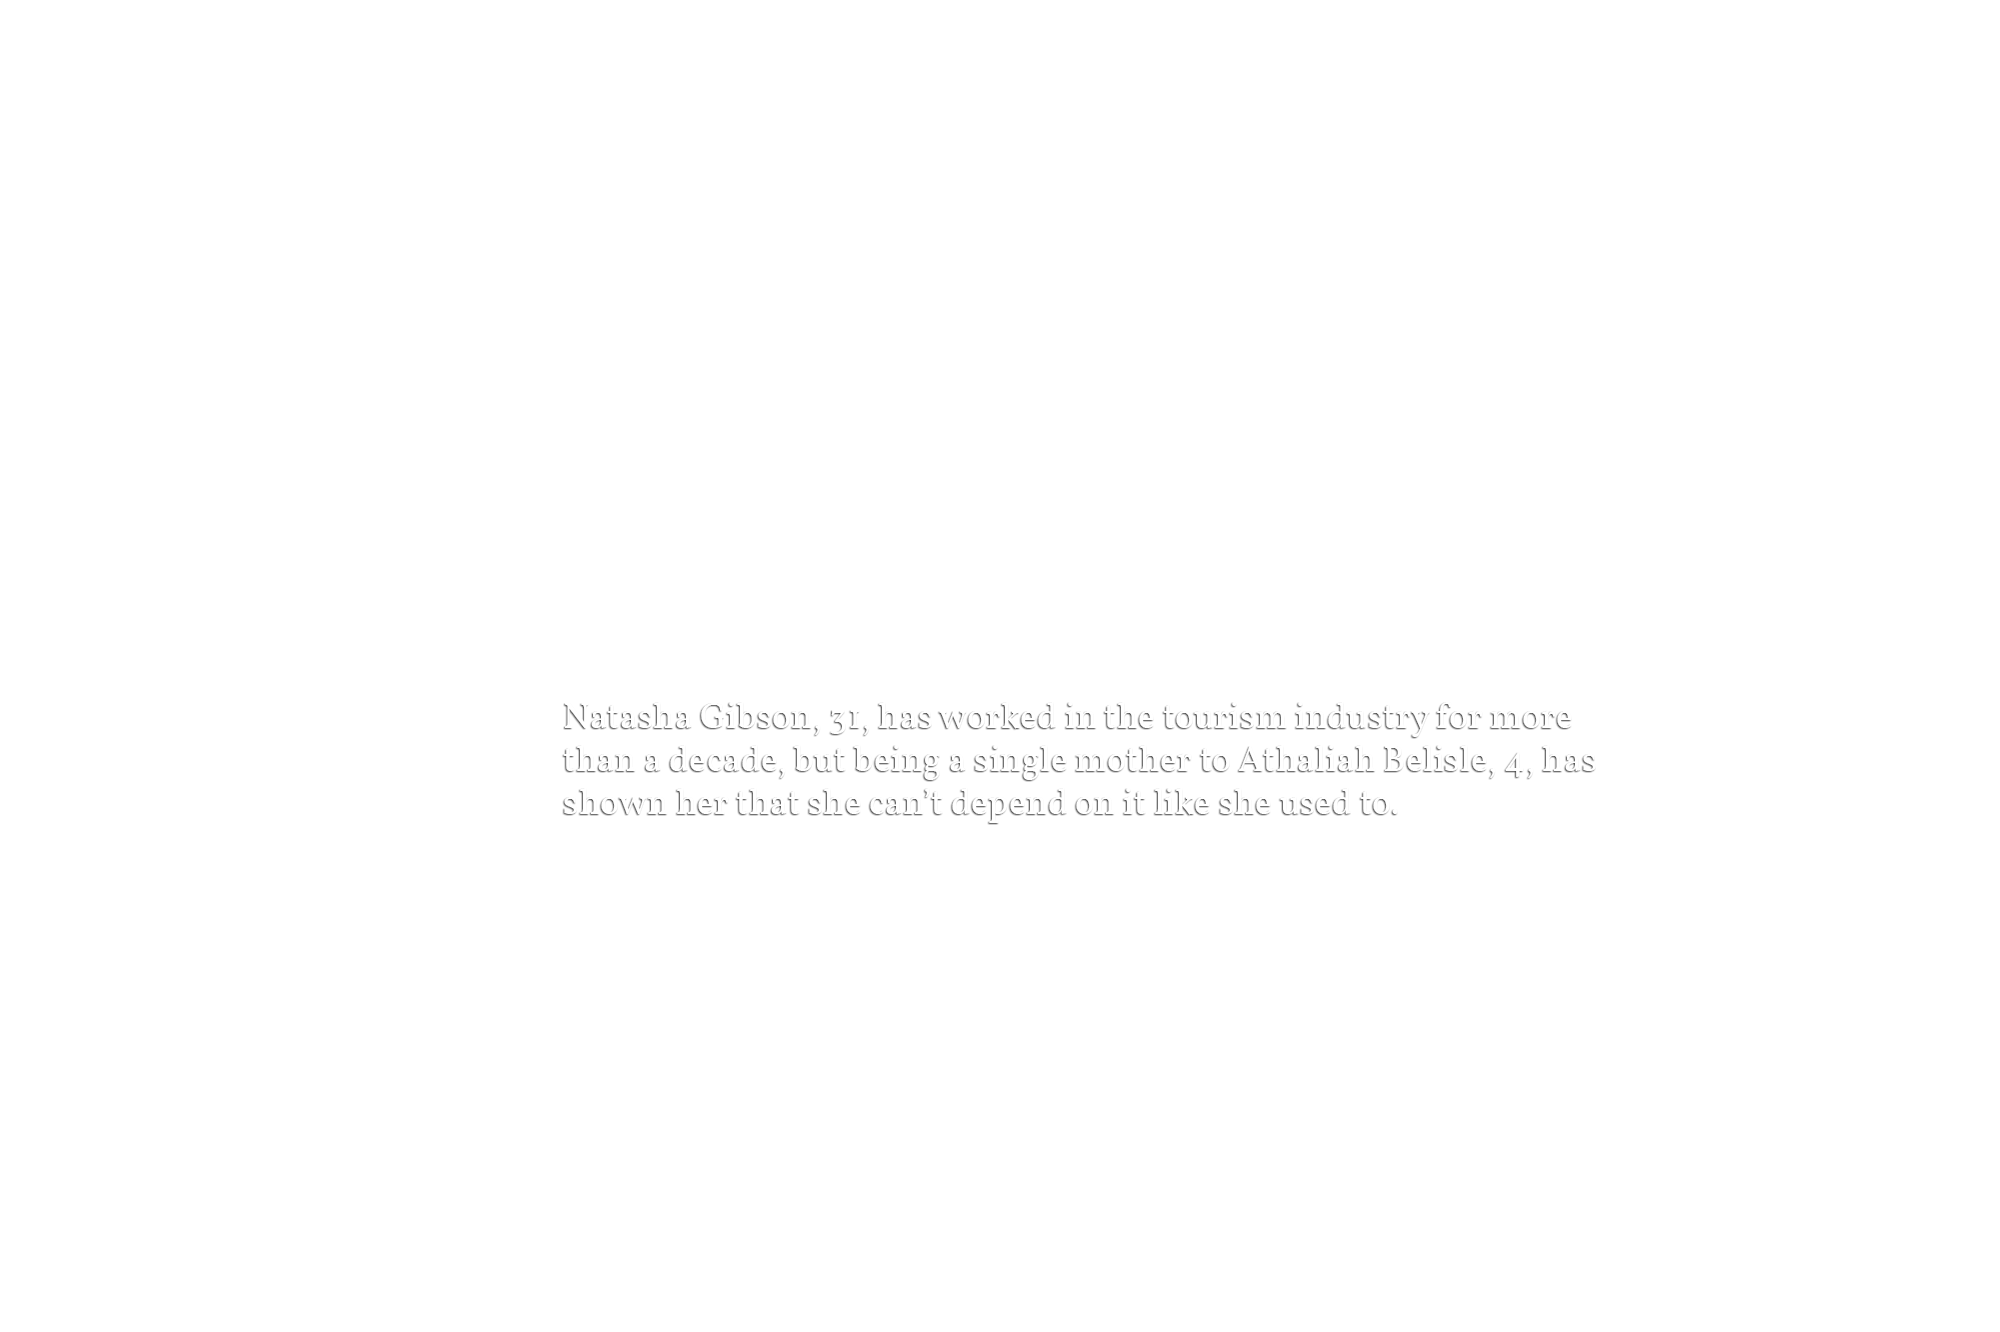
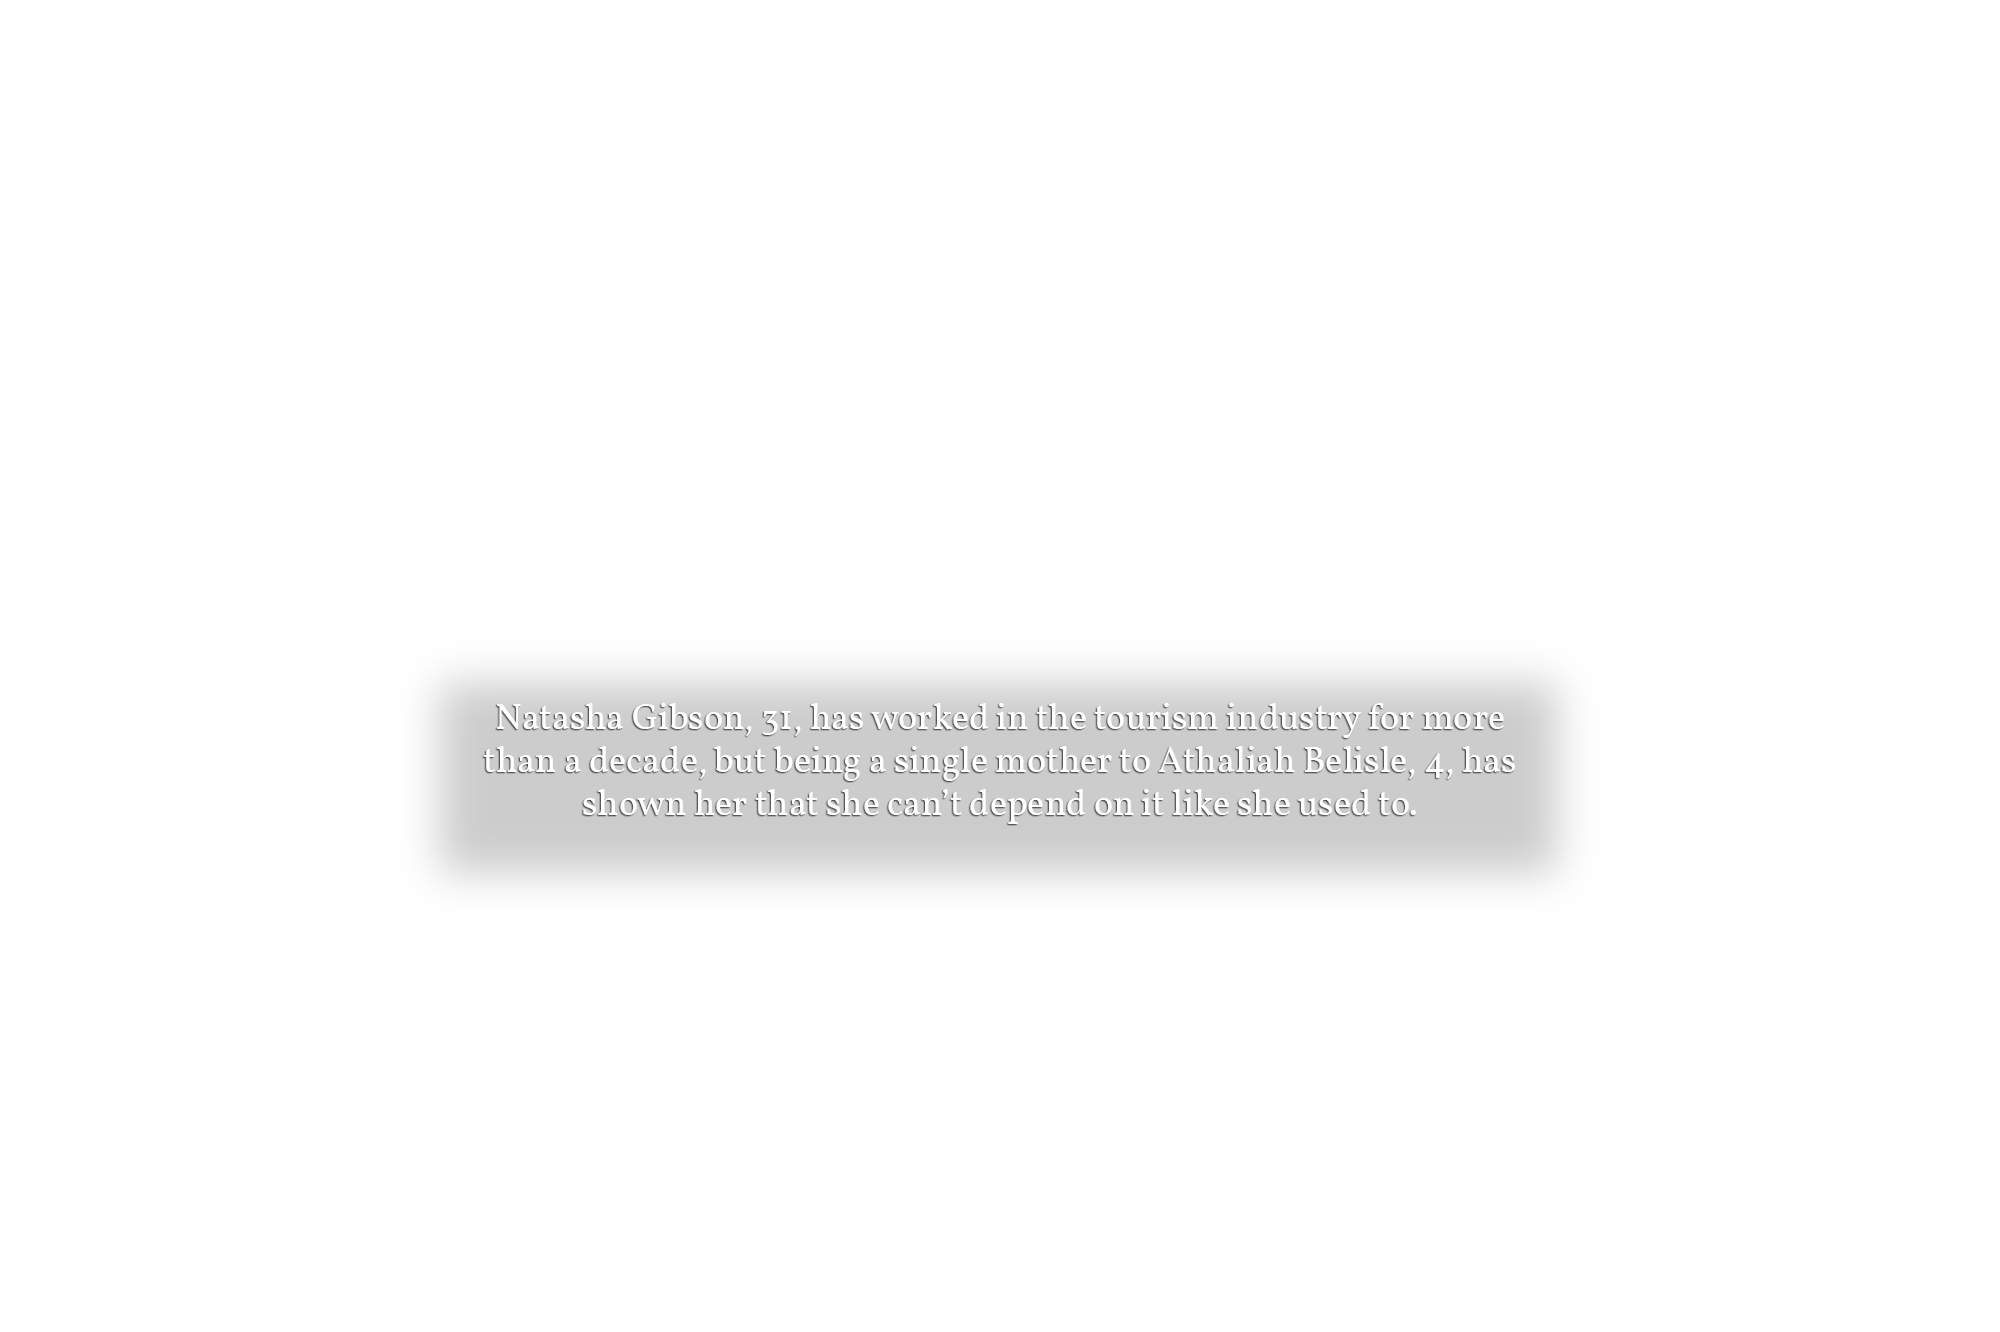
design for mobile photostories

Changed region(s): [[0.217, 0.4925, 0.806, 0.6772]]

diff --git a/layouts/pages/photostory1.html b/layouts/pages/photostory1.html
@@ -4,7 +4,6 @@
 
 {{ define "main" }}
 
-
 <div id="pinMaster">
   <div class="exit">
    <a href="#" onclick="history.back(-1)"><i class="fa fa-times-circle fa-2x"></i></a>
@@ -98,9 +97,59 @@
          </div>
      </section>
    </div>
-</div>
+ </div>
+
+<!--
+  <div class="exit">
+   <a href="#" onclick="history.back(-1)"><i class="fa fa-times-circle fa-2x"></i></a>
+  </div>
+-->
+  <div class="photostory-mobile-title photostory1">
+  <h1>Guiding Generations</h1>
+  <img src="{{ .Site.BaseURL }}images/yellow-underline-left.svg" alt="Yellow Underline">
+  </div>
+  <div id="mobile-photostory">
+  <p>Natasha Gibson, 31, has worked in the tourism industry for more than a decade, but being a single mother to Athaliah Belisle, 4, has shown her that she can’t depend on it like she used to.</p>
+  <img src="{{ .Site.BaseURL }}photostory-generations/france1.jpg" alt="Avatar">
+  <img src="{{ .Site.BaseURL }}photostory-generations/france2.jpg" alt="Avatar">
+  <p>"Being in tourism, you’re gambling your life."</p>
+  <img src="{{ .Site.BaseURL }}photostory-generations/france3.jpg" alt="Avatar">
+  <p>"When there's an offseason after June, you see how bad it is here in this town. It feels like you're living in slow motion like a graveyard."</p>
+  <img src="{{ .Site.BaseURL }}photostory-generations/france4.jpg" alt="Avatar">
+  <img src="{{ .Site.BaseURL }}photostory-generations/france5.jpg" alt="Avatar">
+  <img src="{{ .Site.BaseURL }}photostory-generations/france6.jpg" alt="Avatar">
+  <p>I was thinking of going back to waitressing because I have a child. I know I can get up every day and do my eight-hour shift. The part that really puzzles me is ... the most people get paid here is 250 a week. [250 Belizean dollars is equivalent to 125 U.S. dollars]</p>
+  <p>According to Gibson, tour guides typically earn BZ$75 a day. However, if there’s bad weather or if it’s during offseason, there may not be any tours.</p>
+  <img src="{{ .Site.BaseURL }}photostory-generations/france7.jpg" alt="Avatar">
+  <img src="{{ .Site.BaseURL }}photostory-generations/france8.jpg" alt="Avatar">
+  <img src="{{ .Site.BaseURL }}photostory-generations/france9.jpg" alt="Avatar">
+  <p>Since January 2020, Gibson has started working with local coral restoration organization, Fragments of Hope, in addition to her freelance jobs as a licensed tour guide.</p>
+  <p>"I can't find words to express how it makes me feel to be planting corals. To every one I stick down, I can't wait to go back to see what's my outcome because not all the corals survive, you know?"</p>
+  <img src="{{ .Site.BaseURL }}photostory-generations/france10.jpg" alt="Avatar">
+  <img src="{{ .Site.BaseURL }}photostory-generations/france11.jpg" alt="Avatar">
+  <img src="{{ .Site.BaseURL }}photostory-generations/france12.jpg" alt="Avatar">
+  <img src="{{ .Site.BaseURL }}photostory-generations/france13.jpg" alt="Avatar">
+  <img src="{{ .Site.BaseURL }}photostory-generations/france14.jpg" alt="Avatar">
+  <p>"I want everything that I didn't have for her, which is a good education. I want to raise a child with her head screwed on properly, who will go out and change the world."</p>
+  <img src="{{ .Site.BaseURL }}photostory-generations/france15.jpg" alt="Avatar">
+  <p>"I'm waiting a little bit more to really train her with a snorkeling mask and all that stuff. But as soon as she's able to do it, I want to get her out there and start flooding her brains with it all. ... This part of my life that is the hard struggle job for me will be fun for her. My little girl, you're gonna be a nice doctor, some lawyer, something."</p>
+  </div>
+  <section class="mobile-endcard-itms">
+      <div class="endcard-itms">
+          <p class="endcard-txt">
+              Photos by Haley France
+          </p>
+          <p class="endcard-txt endcard-txt-thanks">
+              Special thanks to Natasha Gibson and Athaliah Belisle
+          </p>
+          <a href="#" onclick="history.back(-1)" class="endcard-btn">
+              Back to Story
+          </a>
+      </div>
+  </section>
 
 <style>
+
   .header, .footer, .main-menu-mobile {
     display:none;
   }
@@ -130,12 +179,10 @@
      padding-bottom: 5vh;
   }
 
-
   .eight img{
     display: block;
     margin-top: -10%;
     width: 100vw;
-
   }
 
   .ten {
@@ -143,6 +190,7 @@
     background-repeat: no-repeat;
     background-size: cover;
   }
+
   .twelve {
     background-image: url("{{ .Site.BaseURL }}photostory-generations/france7.png");
     background-repeat: no-repeat;
@@ -277,8 +325,6 @@
     background-repeat: no-repeat;
     background-size: cover;
   }
-
-
 </style>
 
 {{ end }}

diff --git a/layouts/pages/photostory2.html b/layouts/pages/photostory2.html
@@ -42,6 +42,50 @@
         </div>
     </div>
 
+    <div class="photostory-mobile-title photostory2">
+    <h1>Fishers</h1>
+    <img src="{{ .Site.BaseURL }}images/yellow-underline-left.svg" alt="Yellow Underline">
+    </div>
+    <div id="mobile-photostory">
+    <p>Natasha Gibson, 31, has worked in the tourism industry for more than a decade, but being a single mother to Athaliah Belisle, 4, has shown her that she can’t depend on it like she used to.</p>
+    <img src="{{ .Site.BaseURL }}photostory-generations/france1.jpg" alt="Avatar">
+    <img src="{{ .Site.BaseURL }}photostory-generations/france2.jpg" alt="Avatar">
+    <p>"Being in tourism, you’re gambling your life."</p>
+    <img src="{{ .Site.BaseURL }}photostory-generations/france3.jpg" alt="Avatar">
+    <p>"When there's an offseason after June, you see how bad it is here in this town. It feels like you're living in slow motion like a graveyard."</p>
+    <img src="{{ .Site.BaseURL }}photostory-generations/france4.jpg" alt="Avatar">
+    <img src="{{ .Site.BaseURL }}photostory-generations/france5.jpg" alt="Avatar">
+    <img src="{{ .Site.BaseURL }}photostory-generations/france6.jpg" alt="Avatar">
+    <p>I was thinking of going back to waitressing because I have a child. I know I can get up every day and do my eight-hour shift. The part that really puzzles me is ... the most people get paid here is 250 a week. [250 Belizean dollars is equivalent to 125 U.S. dollars]</p>
+    <p>According to Gibson, tour guides typically earn BZ$75 a day. However, if there’s bad weather or if it’s during offseason, there may not be any tours.</p>
+    <img src="{{ .Site.BaseURL }}photostory-generations/france7.jpg" alt="Avatar">
+    <img src="{{ .Site.BaseURL }}photostory-generations/france8.jpg" alt="Avatar">
+    <img src="{{ .Site.BaseURL }}photostory-generations/france9.jpg" alt="Avatar">
+    <p>Since January 2020, Gibson has started working with local coral restoration organization, Fragments of Hope, in addition to her freelance jobs as a licensed tour guide.</p>
+    <p>"I can't find words to express how it makes me feel to be planting corals. To every one I stick down, I can't wait to go back to see what's my outcome because not all the corals survive, you know?"</p>
+    <img src="{{ .Site.BaseURL }}photostory-generations/france10.jpg" alt="Avatar">
+    <img src="{{ .Site.BaseURL }}photostory-generations/france11.jpg" alt="Avatar">
+    <img src="{{ .Site.BaseURL }}photostory-generations/france12.jpg" alt="Avatar">
+    <img src="{{ .Site.BaseURL }}photostory-generations/france13.jpg" alt="Avatar">
+    <img src="{{ .Site.BaseURL }}photostory-generations/france14.jpg" alt="Avatar">
+    <p>"I want everything that I didn't have for her, which is a good education. I want to raise a child with her head screwed on properly, who will go out and change the world."</p>
+    <img src="{{ .Site.BaseURL }}photostory-generations/france15.jpg" alt="Avatar">
+    <p>"I'm waiting a little bit more to really train her with a snorkeling mask and all that stuff. But as soon as she's able to do it, I want to get her out there and start flooding her brains with it all. ... This part of my life that is the hard struggle job for me will be fun for her. My little girl, you're gonna be a nice doctor, some lawyer, something."</p>
+    </div>
+    <section class="mobile-endcard-itms">
+        <div class="endcard-itms">
+            <p class="endcard-txt">
+                Photos by Haley France
+            </p>
+            <p class="endcard-txt endcard-txt-thanks">
+                Special thanks to Natasha Gibson and Athaliah Belisle
+            </p>
+            <a href="#" onclick="history.back(-1)" class="endcard-btn">
+                Back to Story
+            </a>
+        </div>
+    </section>
+
 <style>
 .header, .footer {
   display:none;

diff --git a/assets/scss/_photostory.scss b/assets/scss/_photostory.scss
@@ -1,3 +1,15 @@
+#mobile-photostory {
+  display: none;
+}
+
+  .photostory-mobile-title{
+    display: none;
+  }
+
+.mobile-endcard-itms {
+    display: none;
+}
+
 #pinMaster {
   .exit {
     position:absolute;
@@ -110,3 +122,121 @@
     width: 100%;
     position: absolute;
   }
+
+@media (max-width: 800px) {
+
+  #pinMaster {
+    display: none;
+  }
+
+/* Figure this out after title etc.
+  .exit {
+    position:absolute;
+    right:20px;
+    top:20px;
+    z-index:1000;
+  }
+*/
+
+  #mobile-photostory {
+    display: flex;
+    flex-direction: column;
+    justify-content: center;
+    align-items: center;
+    margin: 5%;
+
+    img {
+      max-width: 100%;
+      margin: 10px auto;
+    }
+
+    p {
+      line-height: 1.1em;
+      margin: 10px auto;
+    }
+
+  }
+
+  .photostory-mobile-title{
+    display: flex;
+    flex-direction: column;
+    justify-content: center;
+    align-items: center;
+    text-align: center;
+    padding: 5%;
+
+    h1 {
+      font-family: "Vollkorn", serif;
+      color: $white;
+      font-size: 3rem;
+    }
+  }
+
+  .photostory1{
+      background-image: url('../photostory-generations/france2.jpg');
+      background-repeat: no-repeat;
+      background-size: cover;
+  }
+
+  .photostory2{
+      background-image: url('../photostory-generations/france2.jpg');
+      background-repeat: no-repeat;
+      background-size: cover;
+  }
+
+  .photostory3{
+      background-image: url('../photostory-generations/france2.jpg');
+      background-repeat: no-repeat;
+      background-size: cover;
+  }
+
+  .photostory4{
+      background-image: url('../photostory-generations/france2.jpg');
+      background-repeat: no-repeat;
+      background-size: cover;
+  }
+
+  .photostory5{
+      background-image: url('../photostory-generations/france2.jpg');
+      background-repeat: no-repeat;
+      background-size: cover;
+  }
+
+  .mobile-endcard-itms {
+    display: block;
+    background-image: url('../images/mobile-footer-wave.svg');
+    background-repeat: no-repeat;
+    background-size: cover;
+    padding-top: 70px;
+
+    .endcard-itms {
+      margin-right: 5%;
+      margin-left: 5%;
+
+      p {
+        margin: auto;
+        color: $white;
+        font-weight: 600;
+      }
+
+      .endcard-btn{
+        border: 1px solid #fff;
+        padding: 2% 5%;
+        margin-top: 500px;
+        background-color: transparent;
+        color: #fff;
+        text-decoration: none;
+        font-size: 1.4rem;
+        font-family: 'Barlow Semi Condensed',sans-serif;
+        text-transform: uppercase;
+        font-weight: 100;
+      }
+
+      .endcard-txt-thanks {
+        line-height: 1em;
+        margin-bottom: 20px;
+        font-weight: 200;
+      }
+    }
+  }
+}

diff --git a/layouts/pages/photostory3.html b/layouts/pages/photostory3.html
@@ -90,9 +90,52 @@
                 </a>
             </div>
         </section>
-
     </div>
 </div>
+
+<div class="photostory-mobile-title photostory3">
+<h1>Rooted in Culture</h1>
+<img src="{{ .Site.BaseURL }}images/yellow-underline-left.svg" alt="Yellow Underline">
+</div>
+<div id="mobile-photostory">
+  <img src="{{ .Site.BaseURL }}photostory-rooted/duong_1.png" alt="Avatar">
+    <p>Words</p>
+  <img src="{{ .Site.BaseURL }}photostory-rooted/duong_4.jpg" alt="Avatar">
+  <img src="{{ .Site.BaseURL }}photostory-rooted/duong_4.png" alt="Avatar">
+    <p>Words</p>
+    <img src="{{ .Site.BaseURL }}photostory-rooted/duong_5.jpg" alt="Avatar">
+    <img src="{{ .Site.BaseURL }}photostory-rooted/duong_7.png" alt="Avatar">
+    <p>Words</p>
+    <img src="{{ .Site.BaseURL }}photostory-rooted/duong_9.png" alt="Avatar">
+    <img src="{{ .Site.BaseURL }}photostory-rooted/duong_8.jpg" alt="Avatar">
+    <img src="{{ .Site.BaseURL }}photostory-rooted/duong_9.jpg" alt="Avatar">
+    <img src="{{ .Site.BaseURL }}photostory-rooted/duong_13.png" alt="Avatar">
+    <p>Words</p>
+    <img src="{{ .Site.BaseURL }}photostory-rooted/duong_11.jpg" alt="Avatar">
+    <img src="{{ .Site.BaseURL }}photostory-rooted/duong_16.png" alt="Avatar">
+    <img src="{{ .Site.BaseURL }}photostory-rooted/duong_17.png" alt="Avatar">
+    <p>Words</p>
+    <img src="{{ .Site.BaseURL }}photostory-rooted/duong_14.jpg" alt="Avatar">
+    <p>Words</p>
+    <img src="{{ .Site.BaseURL }}photostory-rooted/duong_21.png" alt="Avatar">
+    <img src="{{ .Site.BaseURL }}photostory-rooted/duong_16.jpg" alt="Avatar">
+    <img src="{{ .Site.BaseURL }}photostory-rooted/duong_17.jpg" alt="Avatar">
+    <img src="{{ .Site.BaseURL }}photostory-rooted/duong_24.png" alt="Avatar">
+    <p>Words</p>
+</div>
+<section class="mobile-endcard-itms">
+    <div class="endcard-itms">
+        <p class="endcard-txt">
+            Photos by Dustin Duong
+        </p>
+        <p class="endcard-txt endcard-txt-thanks">
+            Special thanks to Narciso and Julio Saqui
+        </p>
+        <a href="#" onclick="history.back(-1)" class="endcard-btn">
+            Back to Story
+        </a>
+    </div>
+</section>
 
 <style>
   .header, .footer, .main-menu-mobile {

diff --git a/assets/js/photostorygenerations.js b/assets/js/photostorygenerations.js
@@ -64,9 +64,6 @@ tl
 
 
 
-
-
-
 new ScrollMagic.Scene({
     triggerElement: "#pinMaster",
     triggerHook: "onLeave",
